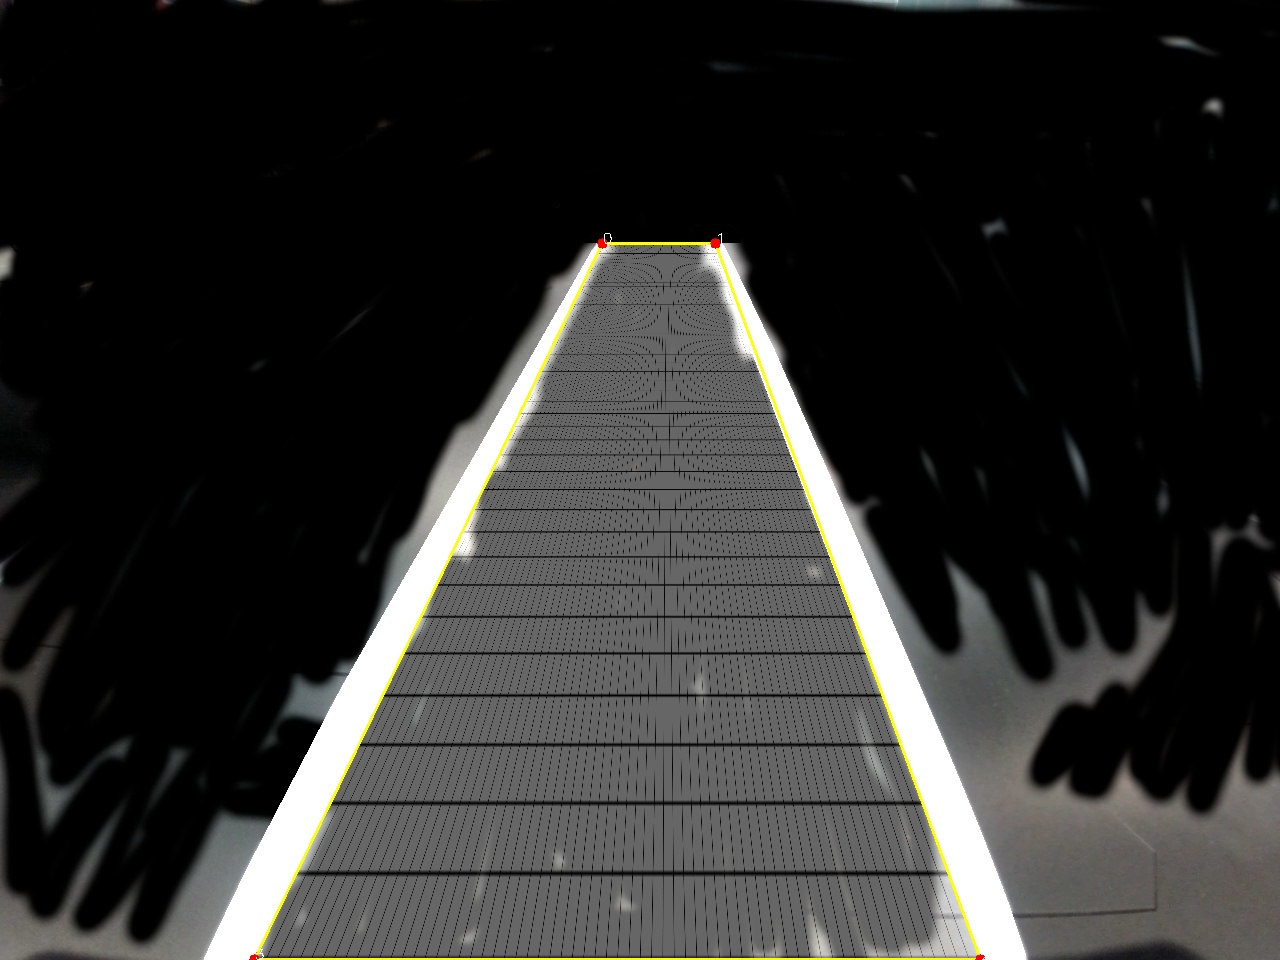
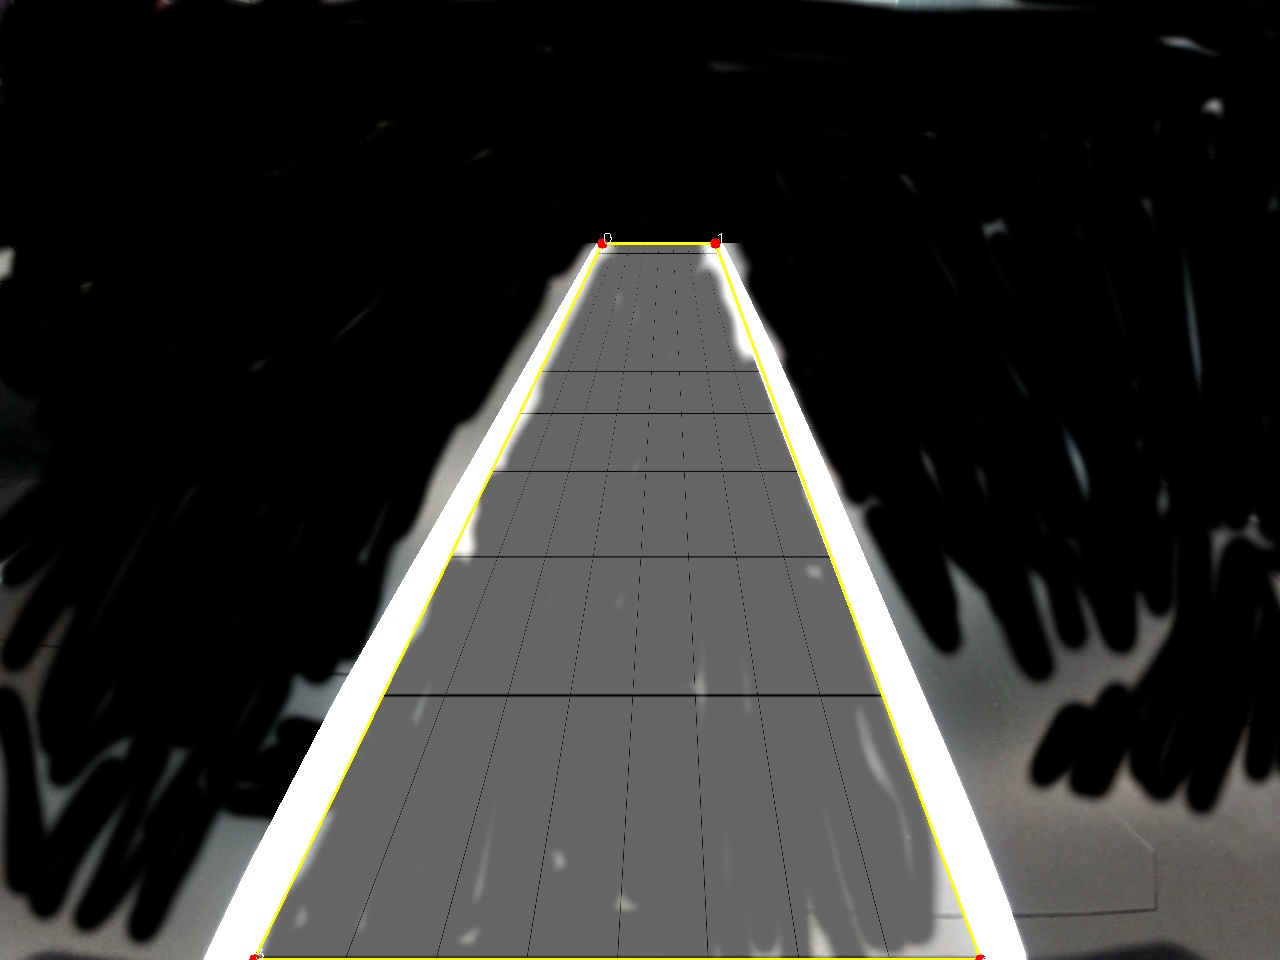
рабочая сетка

diff --git a/Computer_Vision_for_Autonomous_Robot_Navigation/Main_stage/matrix_pro.py b/Computer_Vision_for_Autonomous_Robot_Navigation/Main_stage/matrix_pro.py
@@ -194,8 +194,8 @@ def calculate_grid_step(points, num_cells=15):
     
     return grid_step
 
-def create_grid(width, height, grid_step):
-    """Создает сетку с заданным шагом"""
+def create_grid_with_cells(width, height, num_cells_horizontal, num_cells_vertical):
+    """Создает сетку с заданным количеством ячеек"""
     grid = np.zeros((height, width, 3), dtype=np.uint8)
     grid.fill(255)  # Белый фон
     
@@ -203,18 +203,34 @@ def create_grid(width, height, grid_step):
     line_color = (0, 0, 0)
     line_thickness = 1
     
+    # Вычисляем шаги сетки
+    horizontal_step = width // num_cells_horizontal
+    vertical_step = height // num_cells_vertical
+    
     # Горизонтальные линии
-    for y in range(0, height, grid_step):
+    for i in range(num_cells_vertical + 1):
+        y = i * vertical_step
         cv2.line(grid, (0, y), (width, y), line_color, line_thickness)
     
     # Вертикальные линии
-    for x in range(0, width, grid_step):
+    for i in range(num_cells_horizontal + 1):
+        x = i * horizontal_step
         cv2.line(grid, (x, 0), (x, height), line_color, line_thickness)
     
     return grid
 
 def main():
     """Основная функция"""
+    # Параметры сетки - можно легко изменять
+    NUM_CELLS_HORIZONTAL = 8   # Количество ячеек по горизонтали
+    NUM_CELLS_VERTICAL = 12    # Количество ячеек по вертикали
+    
+    # Можно изменить эти значения для настройки сетки:
+    # NUM_CELLS_HORIZONTAL = 10  # Больше ячеек по горизонтали
+    # NUM_CELLS_VERTICAL = 15    # Больше ячеек по вертикали
+    # NUM_CELLS_HORIZONTAL = 6   # Меньше ячеек по горизонтали
+    # NUM_CELLS_VERTICAL = 8     # Меньше ячеек по вертикали
+    
     # Загружаем изображение
     image_path = "/home/arrma/PROGRAMMS/Arhipelag_2025/Computer_Vision_for_Autonomous_Robot_Navigation/lane_detection_result.jpg"
     image = cv2.imread(image_path)
@@ -234,12 +250,11 @@ def main():
     for i, point in enumerate(dst_points):
         print(f"Точка {i}: ({point[0]:.1f}, {point[1]:.1f})")
     
-    # Вычисляем шаг сетки
-    grid_step = calculate_grid_step(dst_points)
-    print(f"Шаг сетки: {grid_step} пикселей")
+    # Выводим параметры сетки
+    print(f"Сетка: {NUM_CELLS_HORIZONTAL} x {NUM_CELLS_VERTICAL} ячеек")
     
-    # Создаем сетку
-    grid = create_grid(width, height, grid_step)
+    # Создаем сетку с заданным количеством ячеек
+    grid = create_grid_with_cells(width, height, NUM_CELLS_HORIZONTAL, NUM_CELLS_VERTICAL)
     
     # Точки исходного прямоугольника
     src_points = np.float32([
